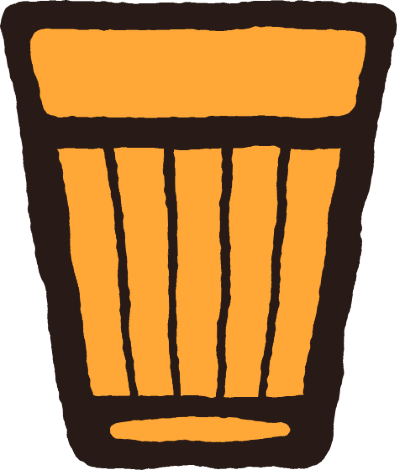
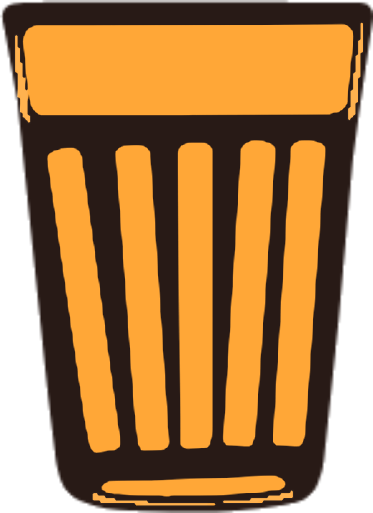
Ajusta os adesivos da festa e a faixa rolante da LP de 2027
Painel da festa: os adesivos das laterais balançam sobre o próprio centro, e a
folha entra no lugar da sombrinha.

Copo de cerveja: volta ao desenho do guia, só com as cores trocadas, e fica menor.

Faixa rolante: fica mais lenta, e saem o caju, a sombrinha e o filtro de barro,
que perdiam as partes marrons no fundo marrom.

diff --git a/2027/index.htm b/2027/index.htm
@@ -109,10 +109,10 @@
 
     <!-- O segredo: abre a partir do sol ou da frase em destaque -->
     <div id="segredo" class="segredo grade mundo-festa" aria-hidden="true">
-        <img src="assets/brasilidades/sombrinha.png" alt="" aria-hidden="true" class="adesivo segredo-adesivo w-20 md:w-36" style="left:6%;top:16%;rotate:-10deg" width="397" height="464" decoding="async">
-        <img src="assets/brasilidades/fitinha-bonfim.png" alt="" aria-hidden="true" class="adesivo segredo-adesivo h-24 md:h-44" style="right:8%;top:14%;rotate:14deg" width="306" height="483" decoding="async">
-        <img src="assets/brasilidades/cordel.png" alt="" aria-hidden="true" class="adesivo segredo-adesivo w-20 md:w-36" style="left:9%;bottom:10%;rotate:-6deg" width="485" height="458" decoding="async">
-        <img src="assets/brasilidades/pandeiro.png" alt="" aria-hidden="true" class="adesivo segredo-adesivo w-20 md:w-36" style="right:7%;bottom:12%;rotate:-14deg" width="353" height="355" decoding="async">
+        <img src="assets/brasilidades/folha.png" alt="" aria-hidden="true" class="adesivo segredo-adesivo w-20 md:w-36" style="left:6%;top:16%;rotate:-10deg" width="333" height="388" decoding="async">
+        <img src="assets/brasilidades/fitinha-bonfim.png" alt="" aria-hidden="true" class="adesivo segredo-adesivo h-24 md:h-44" style="right:8%;top:14%;rotate:14deg;--atraso:-1.1s" width="306" height="483" decoding="async">
+        <img src="assets/brasilidades/cordel.png" alt="" aria-hidden="true" class="adesivo segredo-adesivo w-20 md:w-36" style="left:9%;bottom:10%;rotate:-6deg;--atraso:-2.3s" width="485" height="458" decoding="async">
+        <img src="assets/brasilidades/pandeiro.png" alt="" aria-hidden="true" class="adesivo segredo-adesivo w-20 md:w-36" style="right:7%;bottom:12%;rotate:-14deg;--atraso:-.6s" width="353" height="355" decoding="async">
         <p class="relative z-[2] text-xl md:text-3xl font-semibold mb-4">Festa para celebrar.</p>
         <img class="segredo-titulo mb-7" src="assets/brasilidades/titulo-brasilidades.png" alt="Brasilidades" width="1599" height="216" decoding="async">
         <div class="segredo-acoes">
@@ -206,7 +206,7 @@
             <p class="titulo-palestra text-3xl md:text-5xl text-white max-w-3xl">Quando as luzes do palco se apagam,</p>
         </div>
         <div class="virada-cor grade mundo-festa">
-            <img src="assets/brasilidades/copo-cerveja.png" alt="" aria-hidden="true" class="adesivo virada-adesivo w-24 md:w-40" style="left:7%;top:13%;--r:-40deg" width="397" height="470" loading="lazy" decoding="async">
+            <img src="assets/brasilidades/copo-cerveja.png" alt="" aria-hidden="true" class="adesivo virada-adesivo w-20 md:w-28" style="left:8%;top:14%;--r:-40deg" width="373" height="513" loading="lazy" decoding="async">
             <img src="assets/brasilidades/cadeira-plastico.png" alt="" aria-hidden="true" class="adesivo virada-adesivo w-24 md:w-40" style="right:7%;top:15%;--r:30deg" width="337" height="418" loading="lazy" decoding="async">
             <img src="assets/brasilidades/berimbau.png" alt="" aria-hidden="true" class="adesivo virada-adesivo h-28 md:h-48" style="left:14%;bottom:12%;--r:-26deg" width="345" height="490" loading="lazy" decoding="async">
             <img src="assets/brasilidades/chimarrao.png" alt="" aria-hidden="true" class="adesivo virada-adesivo w-24 md:w-36" style="right:12%;bottom:13%;--r:34deg" width="326" height="475" loading="lazy" decoding="async">
@@ -269,7 +269,7 @@
 <!-- Faixa com os elementos -->
 <div class="faixa-rola" aria-hidden="true">
     <div class="faixa-trilho">
-        <img class="frase" src="assets/brasilidades/meu-sangue-latino.png" alt="" width="2464" height="221" decoding="async"><img src="assets/brasilidades/chinelo.png" alt="" width="395" height="477" decoding="async"><img src="assets/brasilidades/sombrinha.png" alt="" width="397" height="464" decoding="async"><img src="assets/brasilidades/pamonha.png" alt="" width="475" height="380" decoding="async"><img src="assets/brasilidades/sol.png" alt="" width="435" height="428" decoding="async"><img class="frase" src="assets/brasilidades/meu-sangue-latino.png" alt="" width="2464" height="221" decoding="async"><img src="assets/brasilidades/pandeiro.png" alt="" width="353" height="355" decoding="async"><img src="assets/brasilidades/cordel.png" alt="" width="485" height="458" decoding="async"><img src="assets/brasilidades/brasil.png" alt="" width="382" height="382" decoding="async"><img src="assets/brasilidades/vitoria-regia.png" alt="" width="481" height="347" decoding="async"><img src="assets/brasilidades/garrafa.png" alt="" width="149" height="577" decoding="async"><img class="frase" src="assets/brasilidades/meu-sangue-latino.png" alt="" width="2464" height="221" decoding="async"><img src="assets/brasilidades/fitinha-bonfim.png" alt="" width="306" height="483" decoding="async"><img src="assets/brasilidades/sanfona.png" alt="" width="443" height="378" decoding="async"><img src="assets/brasilidades/caju-fruta.png" alt="" width="330" height="440" decoding="async"><img src="assets/brasilidades/folha.png" alt="" width="333" height="388" decoding="async"><img src="assets/brasilidades/filtro-barro.png" alt="" width="379" height="479" decoding="async"><img class="frase" src="assets/brasilidades/meu-sangue-latino.png" alt="" width="2464" height="221" decoding="async"><img src="assets/brasilidades/chinelo.png" alt="" width="395" height="477" decoding="async"><img src="assets/brasilidades/sombrinha.png" alt="" width="397" height="464" decoding="async"><img src="assets/brasilidades/pamonha.png" alt="" width="475" height="380" decoding="async"><img src="assets/brasilidades/sol.png" alt="" width="435" height="428" decoding="async"><img class="frase" src="assets/brasilidades/meu-sangue-latino.png" alt="" width="2464" height="221" decoding="async"><img src="assets/brasilidades/pandeiro.png" alt="" width="353" height="355" decoding="async"><img src="assets/brasilidades/cordel.png" alt="" width="485" height="458" decoding="async"><img src="assets/brasilidades/brasil.png" alt="" width="382" height="382" decoding="async"><img src="assets/brasilidades/vitoria-regia.png" alt="" width="481" height="347" decoding="async"><img src="assets/brasilidades/garrafa.png" alt="" width="149" height="577" decoding="async"><img class="frase" src="assets/brasilidades/meu-sangue-latino.png" alt="" width="2464" height="221" decoding="async"><img src="assets/brasilidades/fitinha-bonfim.png" alt="" width="306" height="483" decoding="async"><img src="assets/brasilidades/sanfona.png" alt="" width="443" height="378" decoding="async"><img src="assets/brasilidades/caju-fruta.png" alt="" width="330" height="440" decoding="async"><img src="assets/brasilidades/folha.png" alt="" width="333" height="388" decoding="async"><img src="assets/brasilidades/filtro-barro.png" alt="" width="379" height="479" decoding="async">
+        <img class="frase" src="assets/brasilidades/meu-sangue-latino.png" alt="" width="2464" height="221" decoding="async"><img src="assets/brasilidades/chinelo.png" alt="" width="395" height="477" decoding="async"><img src="assets/brasilidades/copo.png" alt="" width="149" height="205" decoding="async"><img src="assets/brasilidades/pamonha.png" alt="" width="475" height="380" decoding="async"><img src="assets/brasilidades/sol.png" alt="" width="435" height="428" decoding="async"><img class="frase" src="assets/brasilidades/meu-sangue-latino.png" alt="" width="2464" height="221" decoding="async"><img src="assets/brasilidades/pandeiro.png" alt="" width="353" height="355" decoding="async"><img src="assets/brasilidades/cordel.png" alt="" width="485" height="458" decoding="async"><img src="assets/brasilidades/brasil.png" alt="" width="382" height="382" decoding="async"><img src="assets/brasilidades/vitoria-regia.png" alt="" width="481" height="347" decoding="async"><img src="assets/brasilidades/garrafa.png" alt="" width="149" height="577" decoding="async"><img class="frase" src="assets/brasilidades/meu-sangue-latino.png" alt="" width="2464" height="221" decoding="async"><img src="assets/brasilidades/fitinha-bonfim.png" alt="" width="306" height="483" decoding="async"><img src="assets/brasilidades/sanfona.png" alt="" width="443" height="378" decoding="async"><img src="assets/brasilidades/cadeira-bistro.png" alt="" width="230" height="418" decoding="async"><img src="assets/brasilidades/folha.png" alt="" width="333" height="388" decoding="async"><img src="assets/brasilidades/mesa-dobravel.png" alt="" width="359" height="399" decoding="async"><img class="frase" src="assets/brasilidades/meu-sangue-latino.png" alt="" width="2464" height="221" decoding="async"><img src="assets/brasilidades/chinelo.png" alt="" width="395" height="477" decoding="async"><img src="assets/brasilidades/copo.png" alt="" width="149" height="205" decoding="async"><img src="assets/brasilidades/pamonha.png" alt="" width="475" height="380" decoding="async"><img src="assets/brasilidades/sol.png" alt="" width="435" height="428" decoding="async"><img class="frase" src="assets/brasilidades/meu-sangue-latino.png" alt="" width="2464" height="221" decoding="async"><img src="assets/brasilidades/pandeiro.png" alt="" width="353" height="355" decoding="async"><img src="assets/brasilidades/cordel.png" alt="" width="485" height="458" decoding="async"><img src="assets/brasilidades/brasil.png" alt="" width="382" height="382" decoding="async"><img src="assets/brasilidades/vitoria-regia.png" alt="" width="481" height="347" decoding="async"><img src="assets/brasilidades/garrafa.png" alt="" width="149" height="577" decoding="async"><img class="frase" src="assets/brasilidades/meu-sangue-latino.png" alt="" width="2464" height="221" decoding="async"><img src="assets/brasilidades/fitinha-bonfim.png" alt="" width="306" height="483" decoding="async"><img src="assets/brasilidades/sanfona.png" alt="" width="443" height="378" decoding="async"><img src="assets/brasilidades/cadeira-bistro.png" alt="" width="230" height="418" decoding="async"><img src="assets/brasilidades/folha.png" alt="" width="333" height="388" decoding="async"><img src="assets/brasilidades/mesa-dobravel.png" alt="" width="359" height="399" decoding="async">
     </div>
 </div>
 

diff --git a/2027/css/estilos.css b/2027/css/estilos.css
@@ -118,7 +118,10 @@ img.adesivo { filter: drop-shadow(3px 0 0 var(--areia)) drop-shadow(-3px 0 0 var
 .segredo-fechar { display: inline-flex; align-items: center; justify-content: center; gap: .55em; min-height: 48px; padding: 0 24px; font-weight: 600; color: var(--cacau); border: 3px solid var(--cacau); border-radius: 999px; white-space: nowrap; cursor: pointer; transition: background-color .25s, color .25s; }
 .segredo-fechar:hover { background-color: var(--cacau); color: var(--areia); }
 .segredo-fechar:focus-visible { outline: 3px solid var(--cacau); outline-offset: 3px; }
-.segredo-adesivo { position: absolute; }
+.segredo-adesivo { position: absolute; transform-origin: center; }
+/* Só com o painel aberto: cada adesivo balança para os dois lados, sem sair do lugar */
+.segredo.aberto .segredo-adesivo { animation: balanco-eixo 2.6s ease-in-out infinite alternate; animation-delay: var(--atraso, 0s); }
+@keyframes balanco-eixo { from { transform: rotate(-7deg); } to { transform: rotate(7deg); } }
 @media (max-width: 640px) {
     .segredo-sol { left: 7%; width: 96px; bottom: -58px; }
     .hero-conteudo { padding-bottom: 52px; }
@@ -194,7 +197,7 @@ img.adesivo { filter: drop-shadow(3px 0 0 var(--areia)) drop-shadow(-3px 0 0 var
 .polaroid img { display: block; width: 100%; height: 100%; object-fit: cover; max-width: none; }
 .polaroid:hover { rotate: 0deg !important; scale: 1.04; z-index: 5; }
 .faixa-rola { overflow: hidden; background: var(--cacau); padding: 20px 0; }
-.faixa-trilho { display: flex; width: max-content; align-items: center; gap: 44px; animation: desliza 34s linear infinite; }
+.faixa-trilho { display: flex; width: max-content; align-items: center; gap: 44px; animation: desliza 48s linear infinite; }
 .faixa-rola:hover .faixa-trilho { animation-play-state: paused; }
 .faixa-trilho img { height: 54px; width: auto; max-width: none; }
 .faixa-trilho img.frase { height: 36px; }
